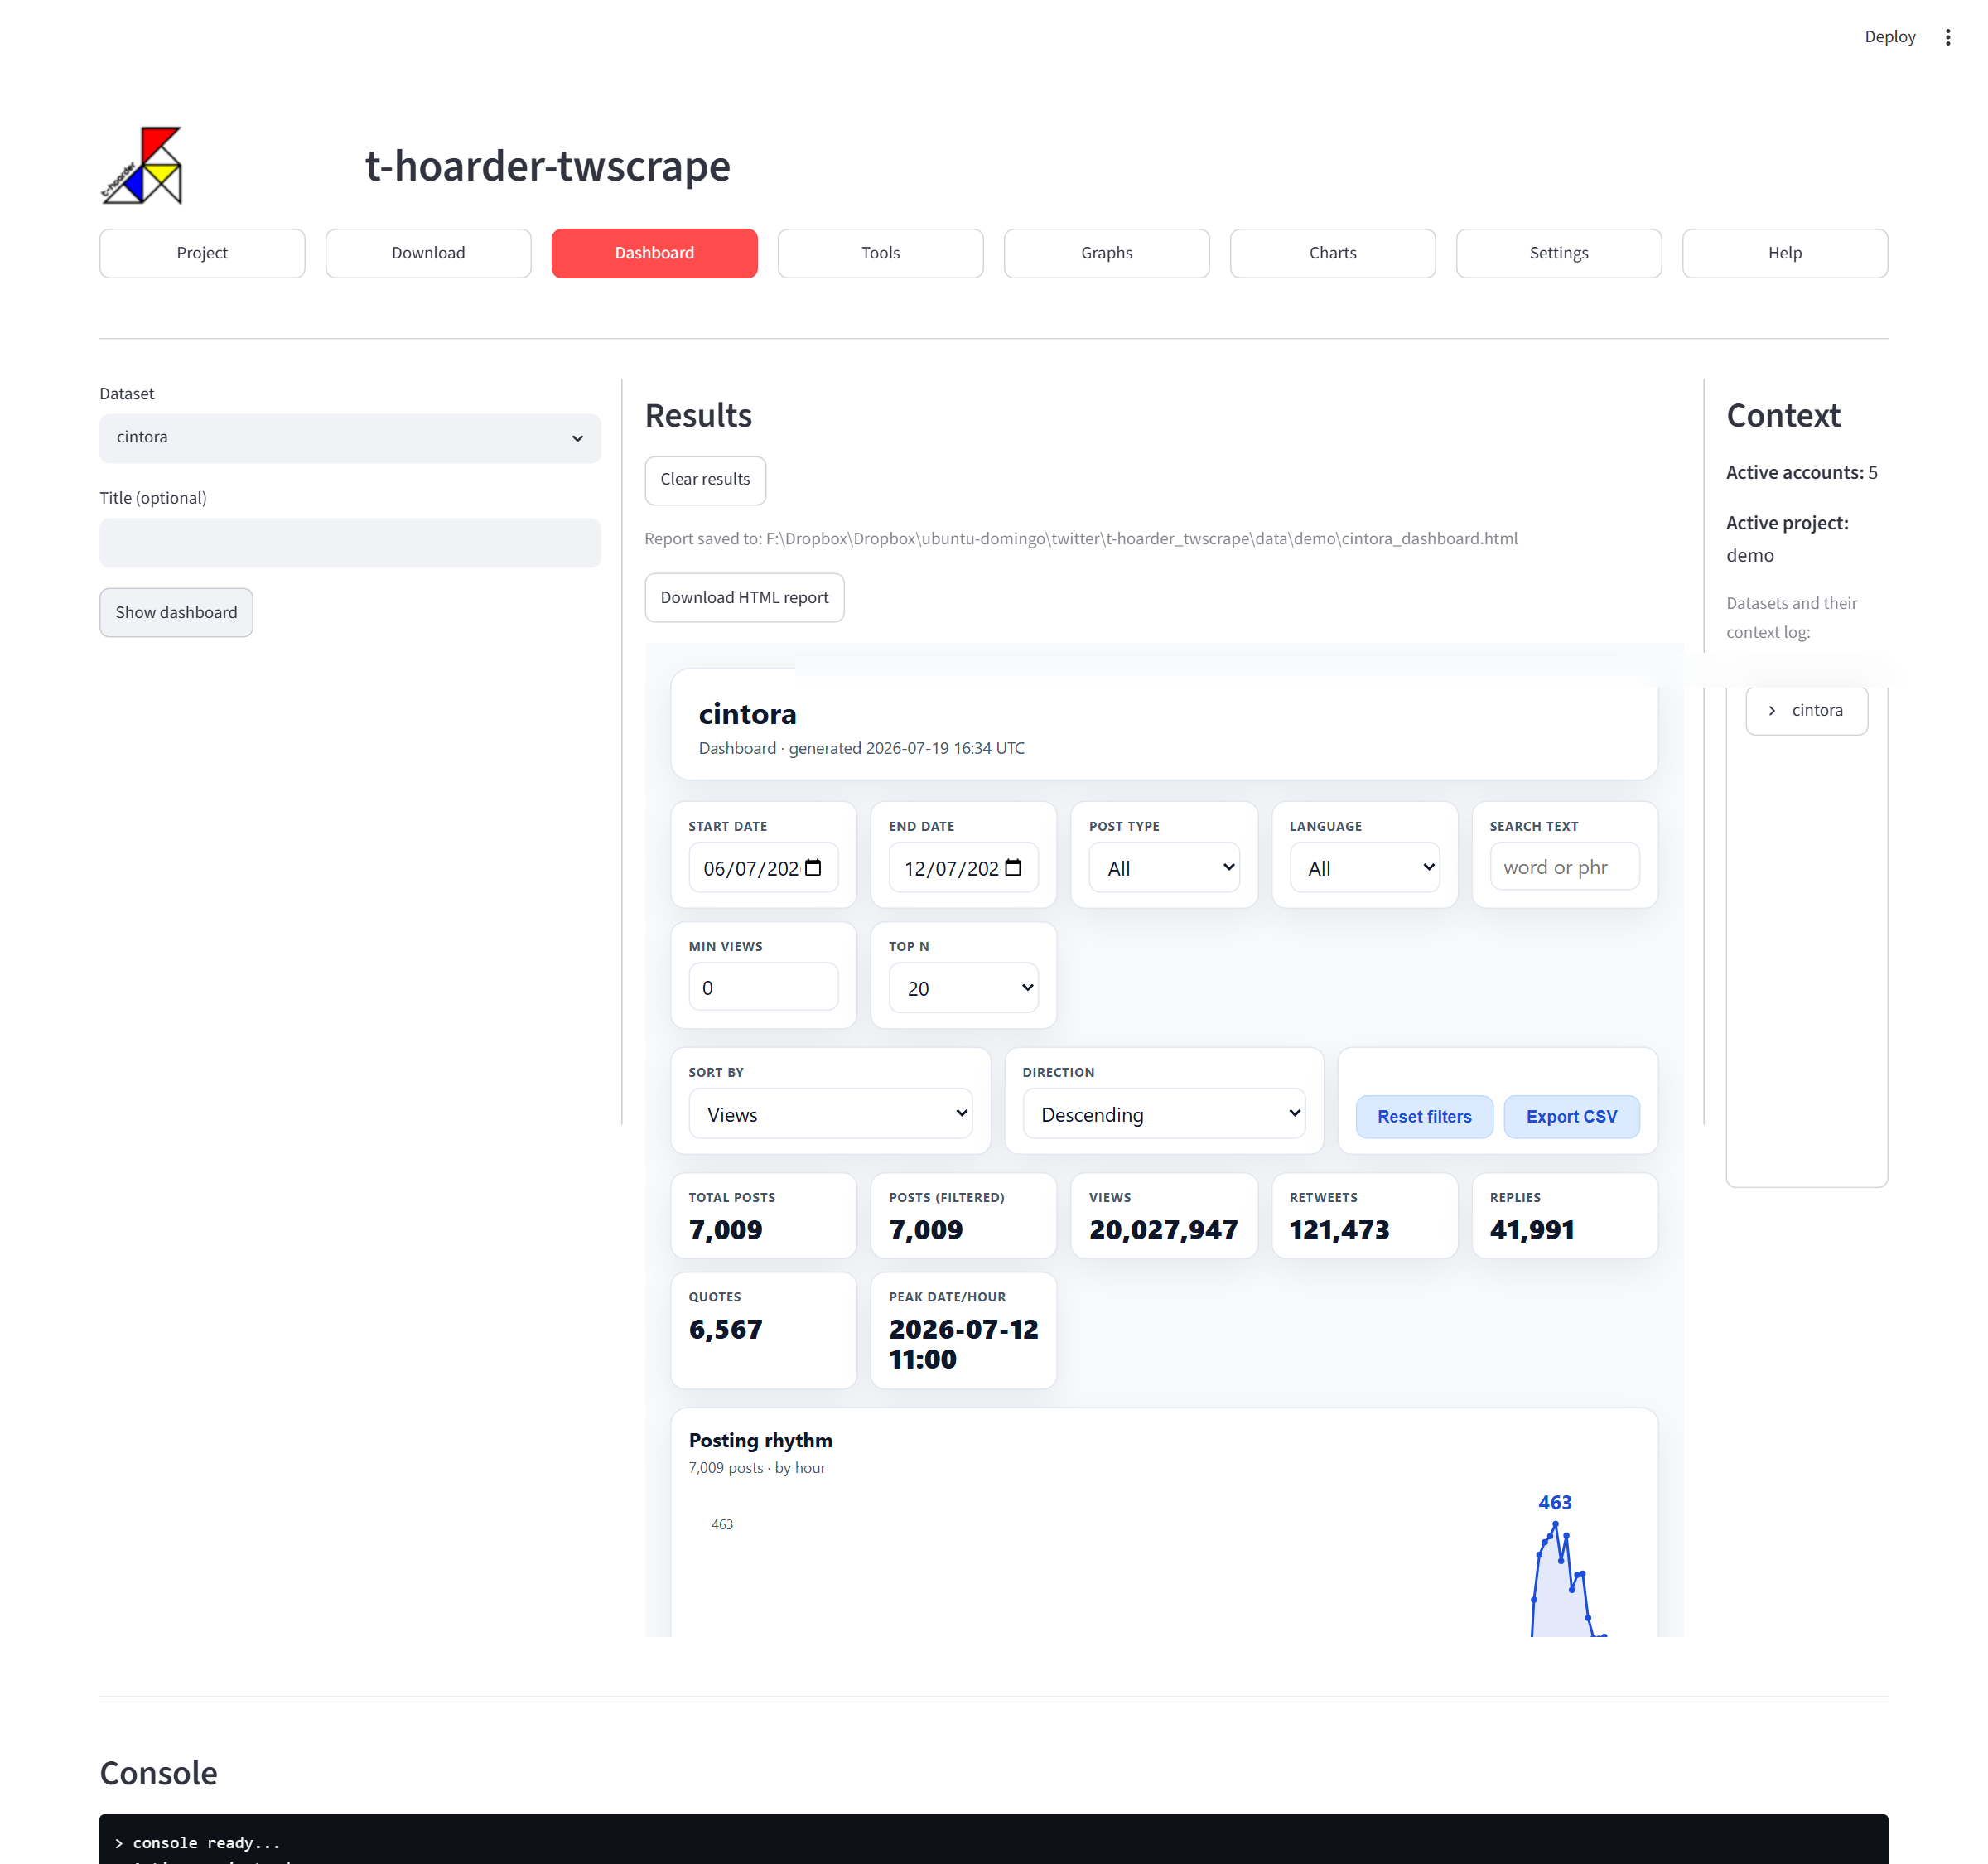
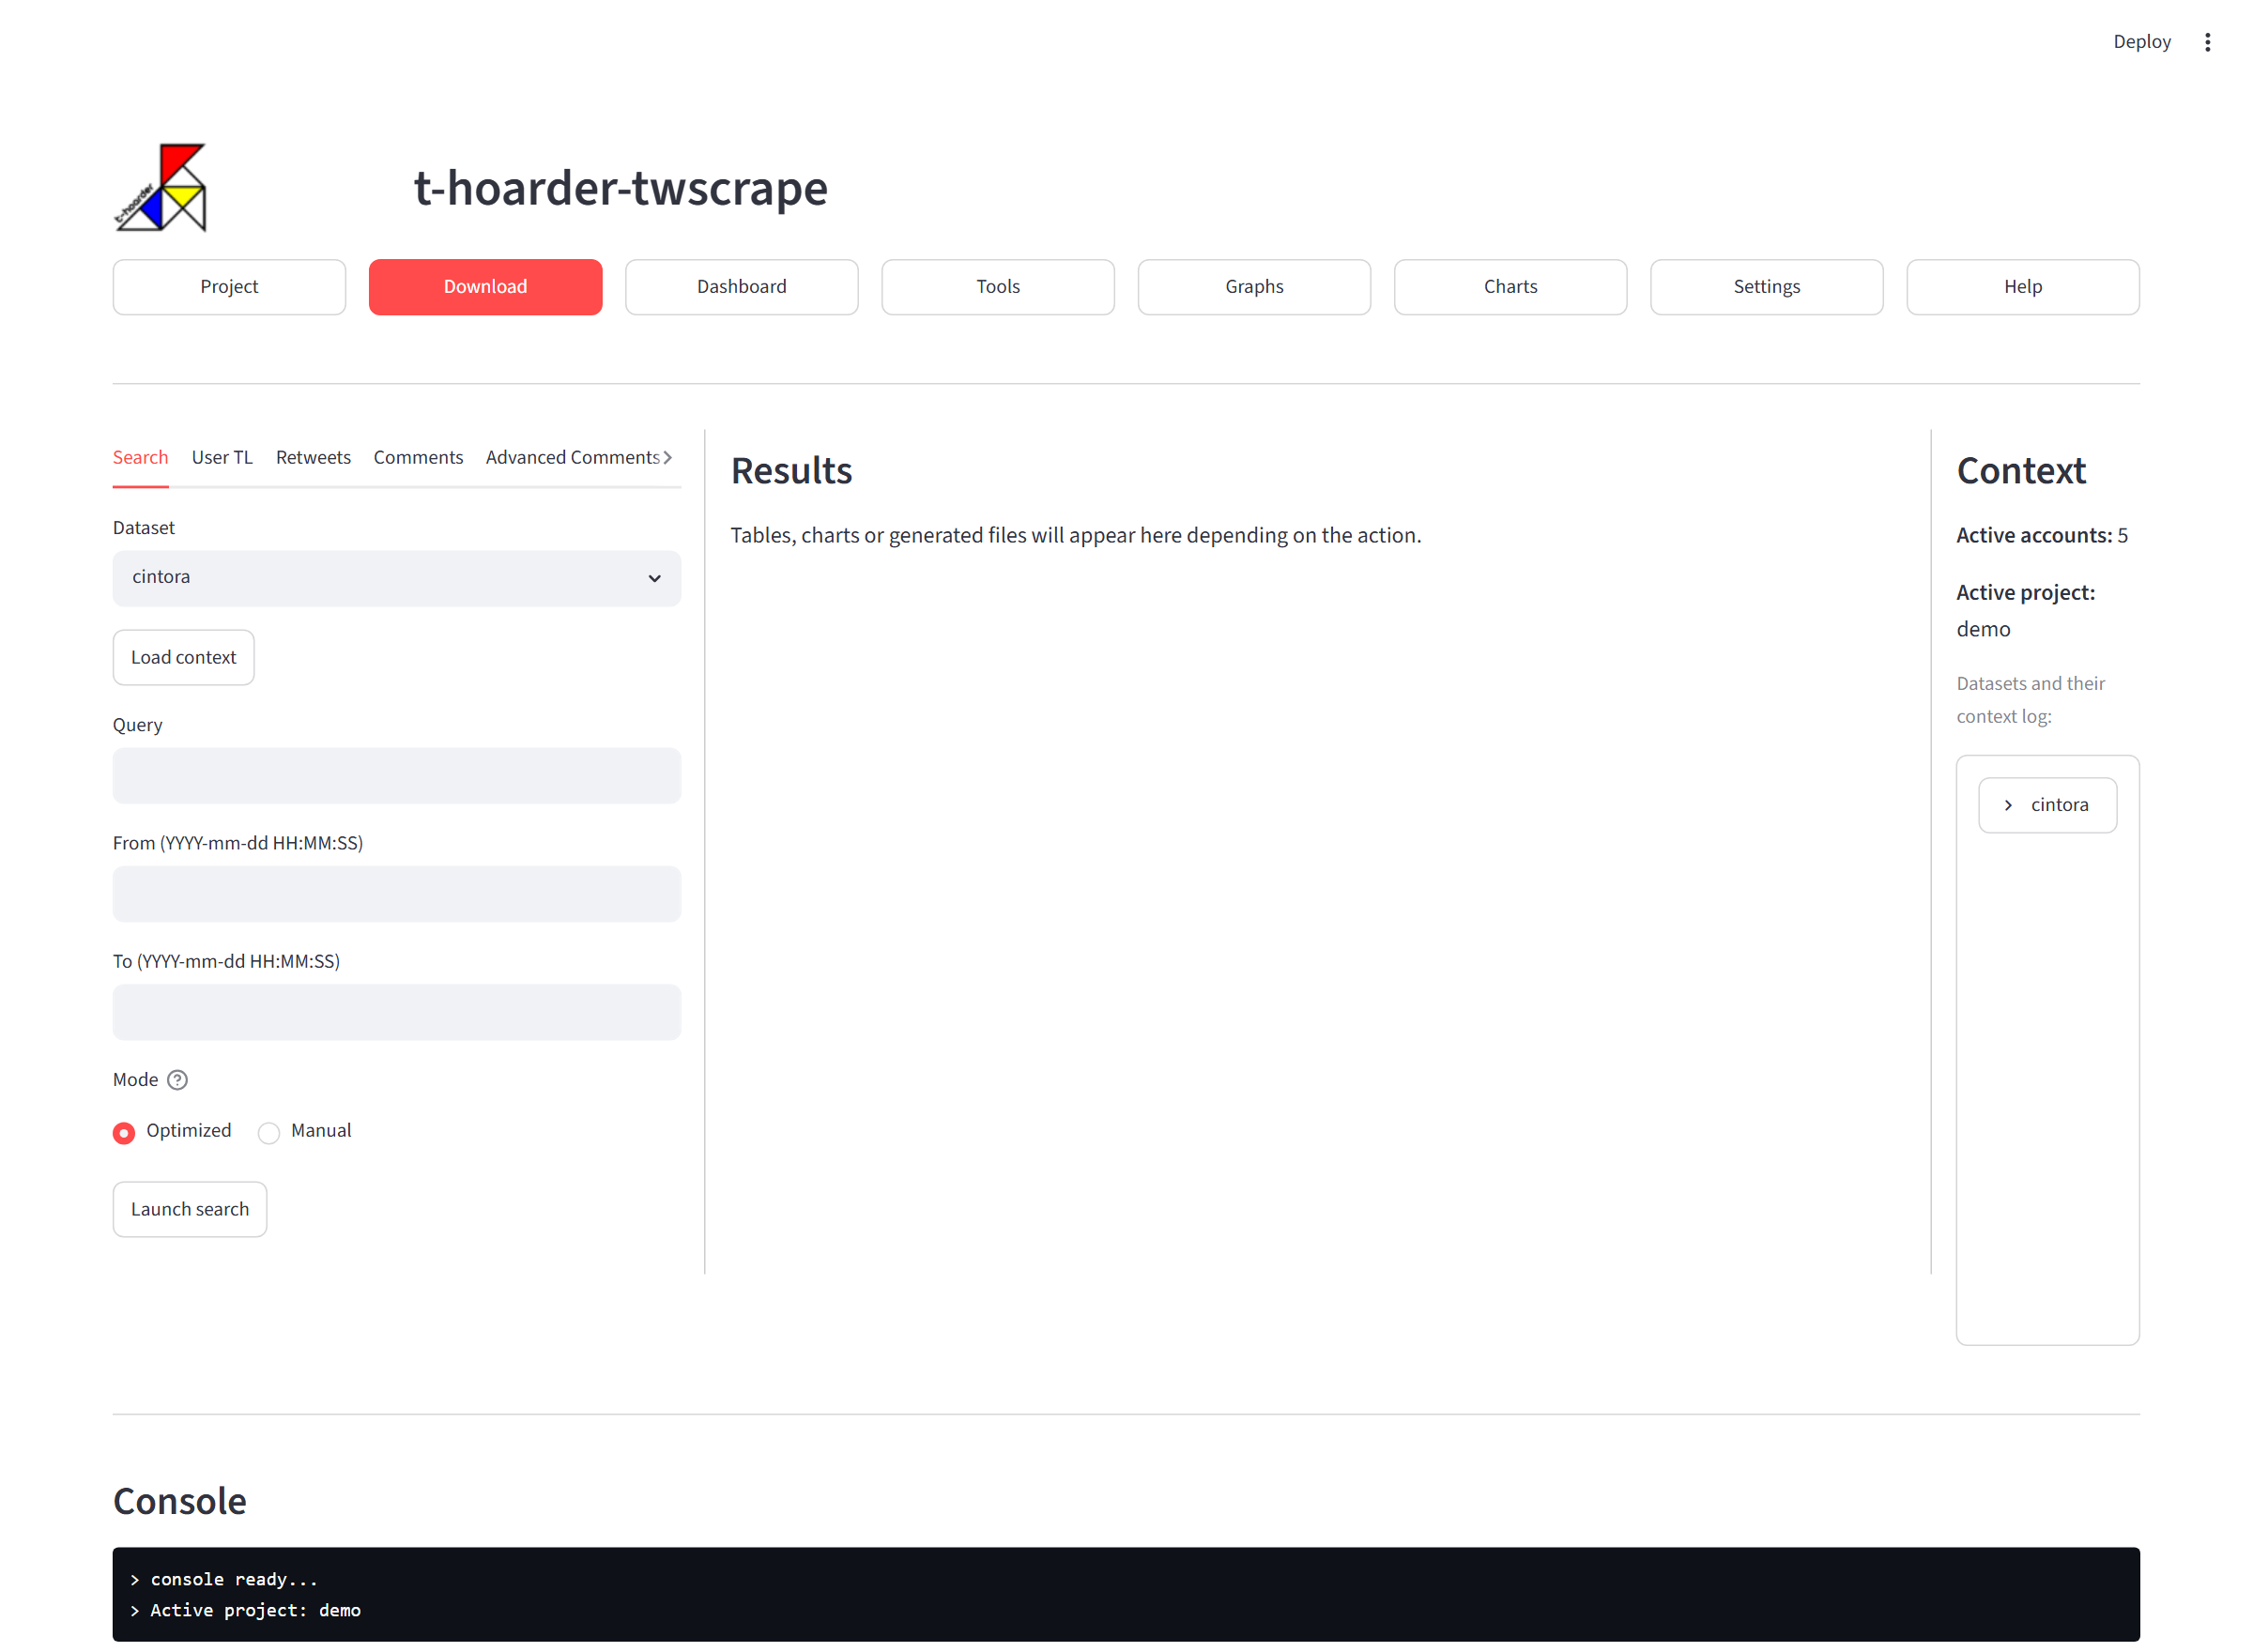
Docs: una sola captura en la guía, la estructura con la sección Download
La vista general pasa a mostrar Download (formulario de Search completo,
resultados, contexto y consola), sin truncados. Se retiran las capturas por
sección (Search, dashboard), que alargaban demasiado cada capítulo.

diff --git a/docs/guia-de-uso.md b/docs/guia-de-uso.md
@@ -207,8 +207,6 @@ quedaron, gracias al contexto que se guarda con cada dataset.
 
 ### Las opciones, una a una
 
-![El formulario de Search: dataset, query, fechas y el modo Optimized](img/download_search.png)
-
 - **Search** — búsqueda histórica de tweets a partir de una query. Campos:
   - *Dataset*: uno existente (para continuar o ampliar una descarga) o
     «➕ nuevo dataset…» para crear uno.
@@ -272,8 +270,6 @@ citas, y el día y hora de máxima actividad), una **gráfica de actividad**
 (el ritmo de publicación a lo largo del periodo) y los **tweets más
 relevantes**, ordenables por distintos criterios (visualizaciones, retweets,
 respuestas, likes, seguidores del autor, fecha…).
-
-![El dashboard: filtros, KPIs y la gráfica de ritmo de publicación](img/dashboard.png)
 
 Toda la vista se puede **filtrar** — por rango de fechas, tipo de tweet
 (original, respuesta, cita), idioma o **palabras del texto** — y los KPIs,

diff --git a/docs/user-guide.en.md b/docs/user-guide.en.md
@@ -204,8 +204,6 @@ they left off, thanks to the context saved with each dataset.
 
 ### The options, one by one
 
-![The Search form: dataset, query, dates and the Optimized mode](img/download_search.png)
-
 - **Search** — historical tweet search from a query. Fields:
   - *Dataset*: an existing one (to continue or extend a download) or
     "➕ new dataset…" to create one.
@@ -269,8 +267,6 @@ quotes, and the day and hour of peak activity), an **activity chart** (the
 posting rhythm over the period) and the **most relevant tweets**, sortable
 by different criteria (views, retweets, replies, likes, author's followers,
 date…).
-
-![The dashboard: filters, KPIs and the posting-rhythm chart](img/dashboard.png)
 
 The whole view can be **filtered** — by date range, tweet type (original,
 reply, quote), language or **words in the text** — and the KPIs, the chart